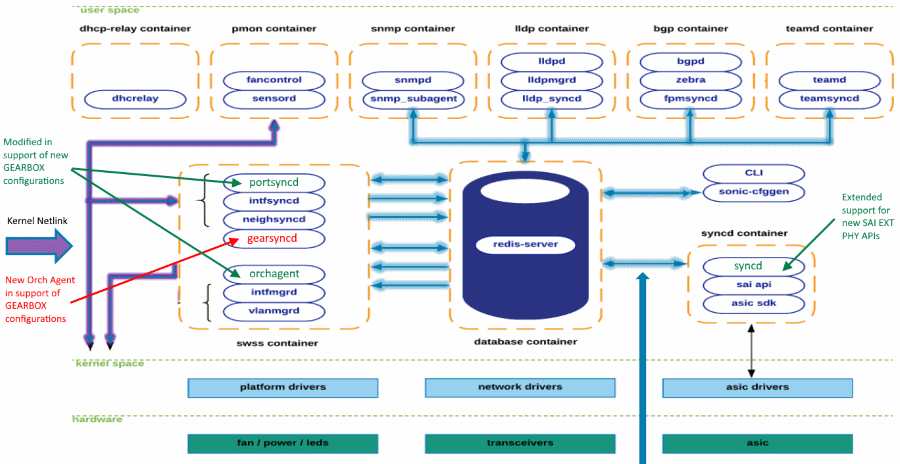
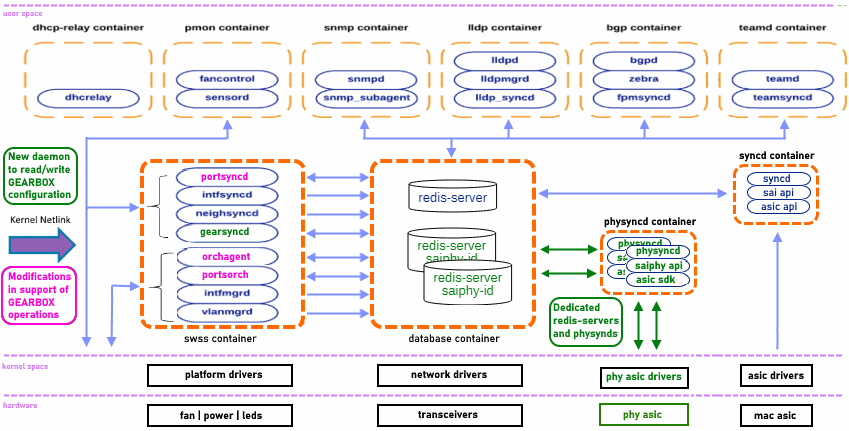
Gearbox High Level Design

diff --git a/base/gearbox/gearbox_mgr_design.md b/base/gearbox/gearbox_mgr_design.md
@@ -25,7 +25,7 @@ SONiC Gearbox Manager
 | Rev |     Date    |       Author       | Change Description                |
 |:---:|:-----------:|:------------------:|-----------------------------------|
 | 0.1 | 10/22/2019  | Dan Arsenault      | Initial Draft                     |
-| 0.2 | 11/01/2019  | Dan Arsenault      | Minor internal review edits       |
+| 0.2 | 12/12/2019  | Dan Arsenault      | Minor internal review edits       |
 
 
 # About this Manual
@@ -70,7 +70,7 @@ The Abstraction Interface contains a set of SAI APIs providing new functionality
 5. Coordinates port configuration between system and line side and External PHYs
 6. Abstracts the system side configuration from the SONiC application
 7. Consolidate link status from ASIC and PHY port side if PHY driver doesn't support status propagation
-8. Support removable line cards with any PHY configuration (future)
+8. Support removable line cards with any PHY configuration (*future*)
 9. Warm-boot support
 
 ## 1.2 Configuration and Management Requirements
@@ -114,7 +114,7 @@ In order to isolate gearbox functionality and complexity, the Gearbox Manager im
 ![Gearbox Overview](images/gearbox_overview.png)
 
 ### 3.1.1 ORCHAGENT (modified)
-Upon startup or reboot, the SWSS ORCHAGENT determines if the given platform supports an external gearbox PHY. If detected, the new GEARSYNCD daemon is started which reads and interprets the gearbox related configuration files. The ORCHAGENT also establishes a global gearbox enabled flag that can then be used and shared throughout the SWSS container.
+Upon startup or reboot, portsyncd is started as well as the new gearsyncd deamon. The Orchagent is still responsible for creating the ASIC switch and the associated host interfaces. The internal doPortTask has been modified to support both internal port and Gearbox related events.  
 
 ![Gearbox ORCHAGENT FLOW](images/gearbox_orchagent_flow.png)
 
@@ -129,11 +129,11 @@ The existing PORTSYNCD daemon has been modified to detect the presence of the Ge
 ![Gearbox PORTSYNCD Flow](images/gearbox_portsyncd_flow.png)
 
 ### 3.1.4 PORTSORCH (modified)
-If the Gearbox Manager is present, the PORTSORCH agent has been modified to load and initialize all the external PHYs as well their associated SAI APIs. The PORTSORCH agent also has a new doGearTask that is dedicated to gearbox management. Given the gearbox platform and PHY configurations and by utilizing the new SAI PHY APIs, the actual device topology (how these gearbox devices are physically connected) is configured. The following is a high-level interaction between this agent and the SAI APIs.
+If the Gearbox Manager is enabled, the PORTSORCH agent has been modified to load and initialize all the external PHYs as well their associated SAI APIs. The PORTSORCH doPortTask has been modified to filter on Gearbox events. Given the gearbox platform and PHY configurations and by utilizing the new SAI PHY APIs, the actual device topology (how these gearbox devices are physically connected) is configured. The following is a high-level interaction between this agent and the SAI APIs.
 
 ![Gearbox PORTSORCH & SAI Interaction](images/gearbox_portsorch_sai_interaction.png)
 
-The following sequence diagram shows the PHY initialization process; which also establishes a map structure that is used by the new doGearTask(). The doGearTask() creates the external PHY ports and their connections using the associated external SAI PHY API library.
+The following sequence diagram shows the PHY initialization process; which also establishes a map structure that is used by the enhanced doPortTask(). The doPortTask() creates the external PHY ports and their connections using the associated external SAI PHY API library.
 
 ![Gearbox PORTSORCH & SAI Sequence](images/gearbox_portsorch_sequence.png)
 
@@ -309,7 +309,7 @@ The following diagram shows the overall object model for which the new SAI Exter
 
 ![Gearbox SAI Object Model](images/gearbox_sai_object_model.png)
 
-Each external PHY is represented and packaged within its own SYNCD daemon. Each daemon is uniquely identified by its PHY address and is linked with its own SAI PHY library. The SYNCD Docker has been modified to detect the available PHYs and starts each daemon listening to service its commands. Please see the following flow between the ORCHAGENT and the modified SYNCD DOCKER.
+Each external PHY is represented and packaged within its own docker-syncd-phy daemon. Each daemon is uniquely identified by its PHY address and is linked with its own SAI PHY library. A new PHYSYNCD Docker has been created to detect the available PHYs and starts each new syncd-phy daemon within its container. Note that the DATABASE docker has also been modified to replicate the databases which are dedicated for each syncd-phy. Please see the following flow between the ORCHAGENT and the new/modified DATABASE and PHYSYNCD dockers.
 
 ![Gearbox ORCHAGENT and SYNCD Flow](images/gearbox_portsorch_syncd_flow.png)
 
@@ -323,8 +323,16 @@ The Gearbox Manager has no dependency on the SONiC CLI.
 
 ### 3.7.3 Show Commands
 Optionally, the CLI show command may provide additional information.
-show interfaces gearbox (future)
 
+~~~
+show gearbox interfaces status (future)
+
+   Interface    Lanes  Speed Sytems Lanes  System Speed       Line Lanes  Line Speed           Alias 
+   ---------  -------  ----- ------------  ------------  ---------------  ----------  --------------
+   Ethernet0  101,102  40000      200,201         20000  203,204,205,206       10000  fortyGigE1/1/1  
+   Ethernet1  103,104  40000      207,208         20000  209,210,211,212       10000  fortyGigE1/1/2
+~~~
+  
 ### 3.7.4 Debug Commands
 
 ### 3.7.5 REST API Support
